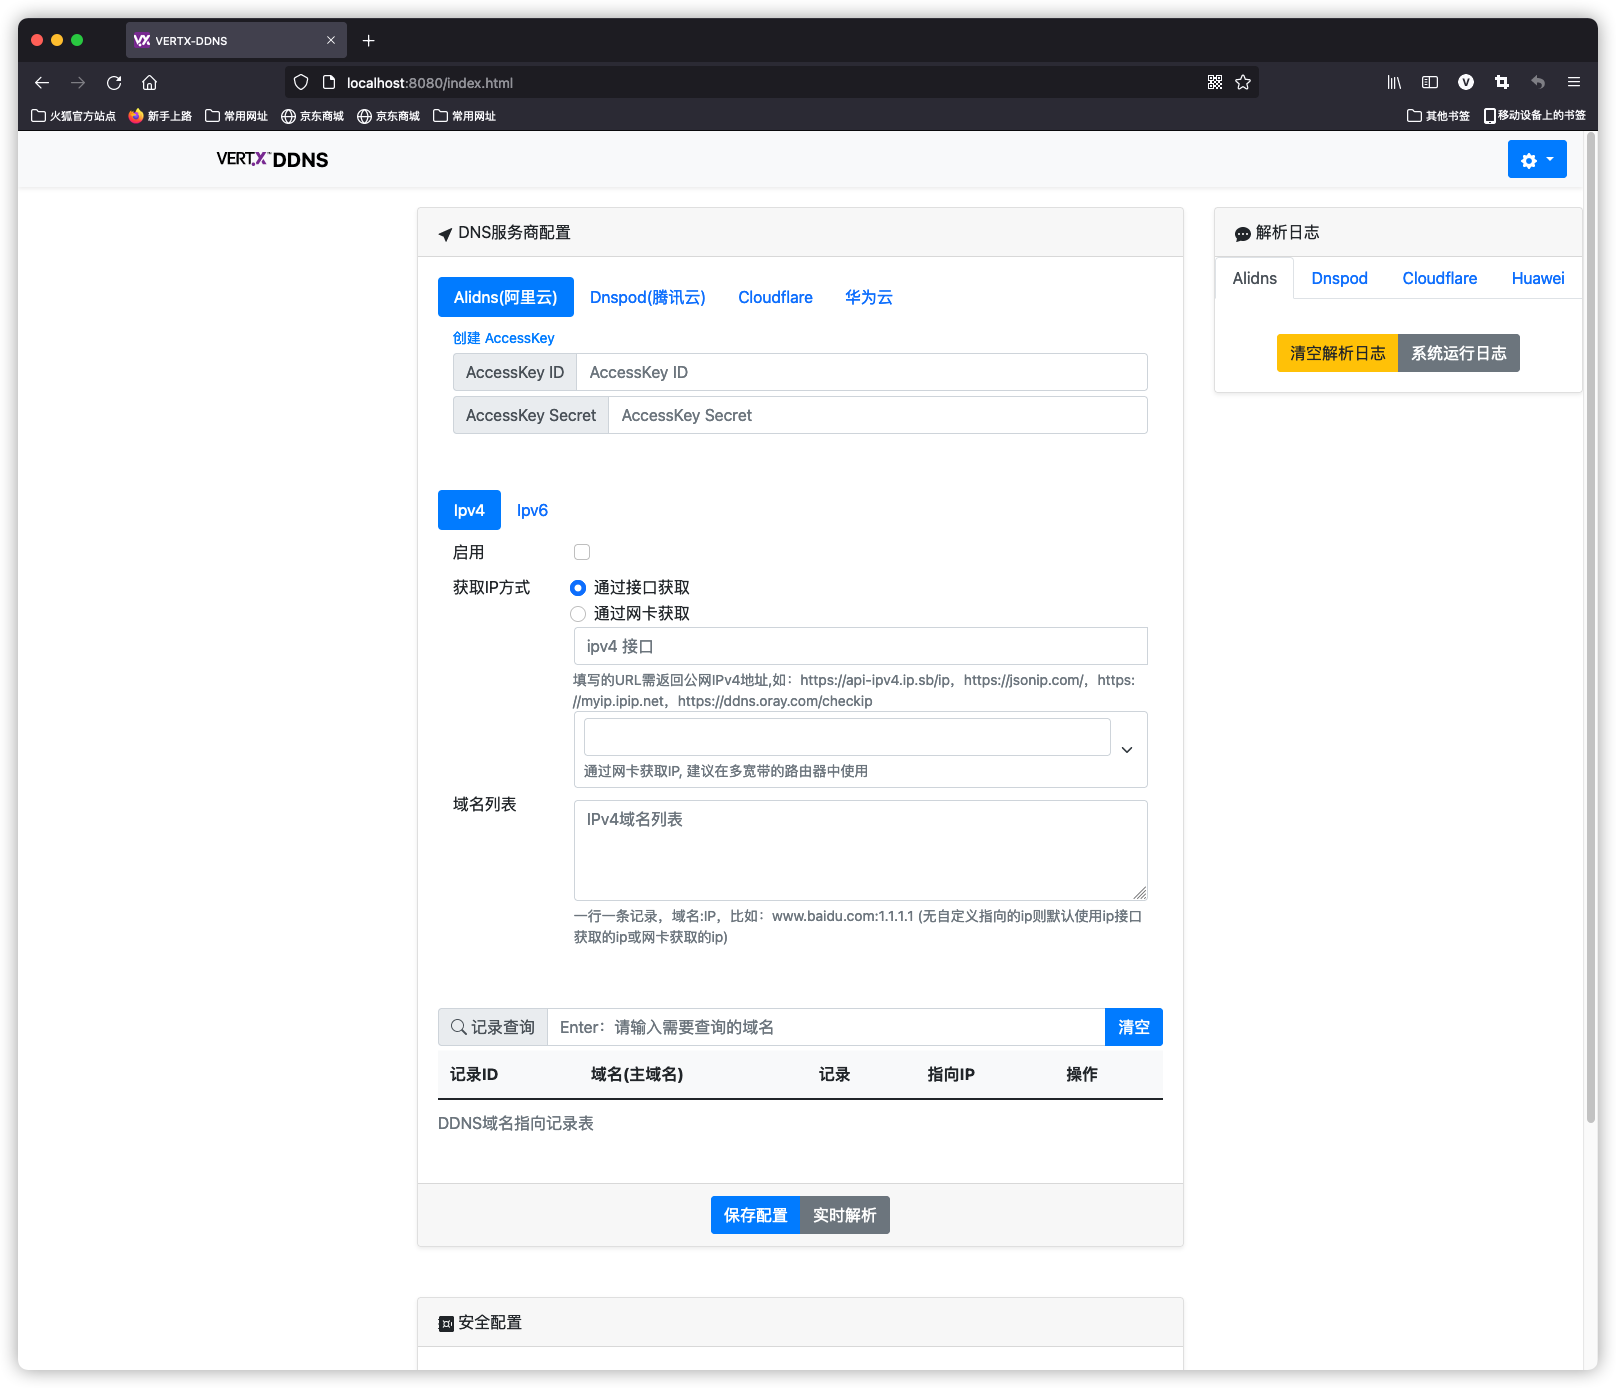
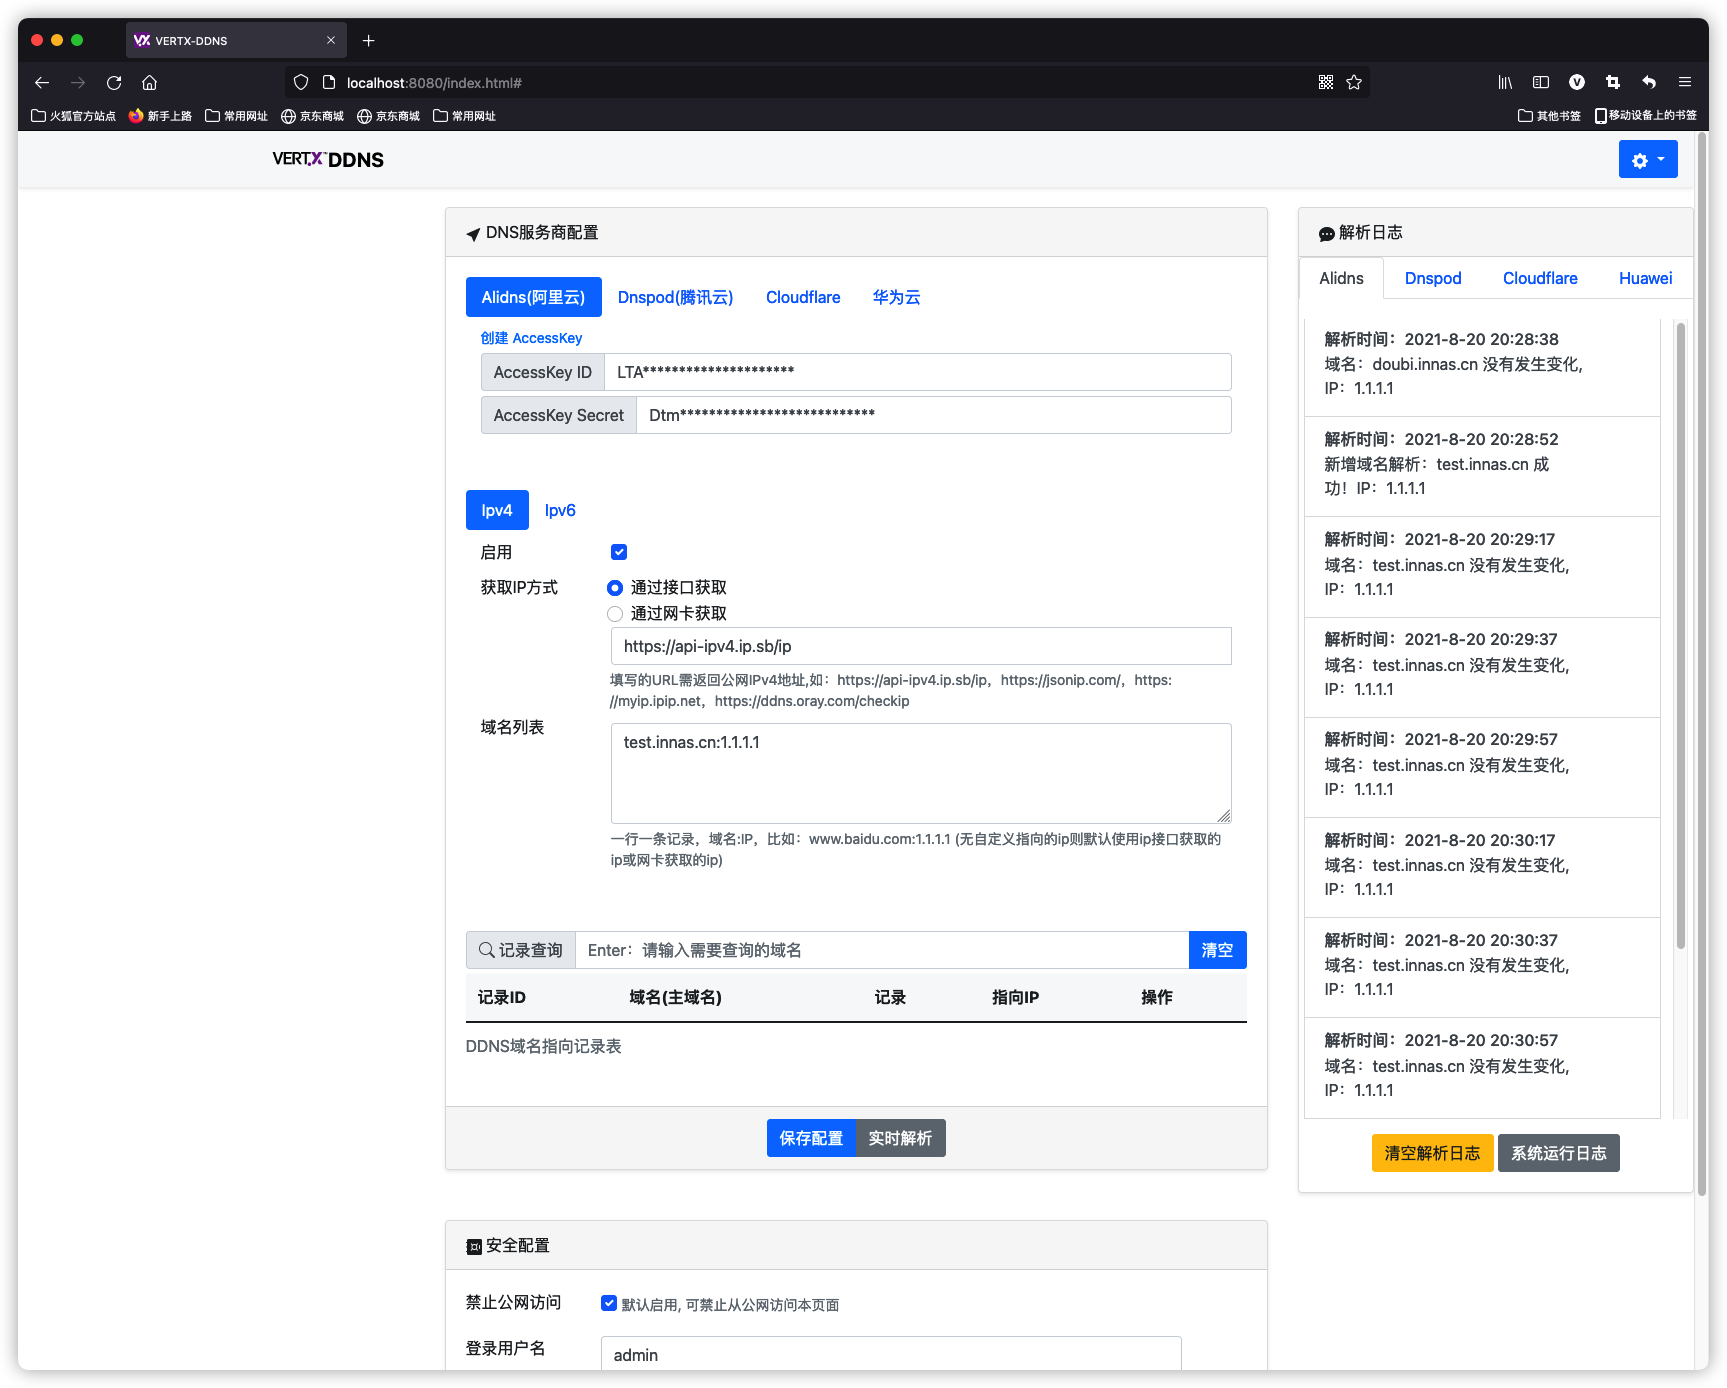
feat: 接入Webhook

diff --git a/src/main/resources/templates/index.html b/src/main/resources/templates/index.html
@@ -343,17 +343,44 @@
                       <fieldset class="row mb">
                           <legend class="col-form-label col-sm-2 pt-0">登录密码</legend>
                           <div class="col-sm-10">
-                              <input class="form-control" type="password" style="width: 90%" name="password" id="password" aria-describedby="password_help">
+                              <input class="form-control" type="password" style="width: 90%" name="password"
+                                     id="password" aria-describedby="password_help">
                               <small id="password_help" class="form-text text-muted">为保护你的信息安全, 建议输入</small>
                           </div>
                       </fieldset>
                   </form>
               </div>
               <div class="card-footer">
-                  <button class="btn btn-primary submit_btn" style="display:block;margin:0 auto" onclick="storeSecureConfig()">保存</button>
+                  <button class="btn btn-primary submit_btn" style="display:block;margin:0 auto"
+                          onclick="storeSecureConfig()">保存
+                  </button>
+              </div>
+          </div>
+          <!--          Webhook-->
+          <div class="card shadow-sm" style="margin-top: 50px; margin-bottom: 50px">
+              <div class="fs-6 card-header">
+                  <svg class="bi bi-bug-fill" fill="currentColor" height="16" viewBox="0 0 16 16" width="16"
+                       xmlns="http://www.w3.org/2000/svg">
+                      <path d="M4.978.855a.5.5 0 1 0-.956.29l.41 1.352A4.985 4.985 0 0 0 3 6h10a4.985 4.985 0 0 0-1.432-3.503l.41-1.352a.5.5 0 1 0-.956-.29l-.291.956A4.978 4.978 0 0 0 8 1a4.979 4.979 0 0 0-2.731.811l-.29-.956z"/>
+                      <path d="M13 6v1H8.5v8.975A5 5 0 0 0 13 11h.5a.5.5 0 0 1 .5.5v.5a.5.5 0 1 0 1 0v-.5a1.5 1.5 0 0 0-1.5-1.5H13V9h1.5a.5.5 0 0 0 0-1H13V7h.5A1.5 1.5 0 0 0 15 5.5V5a.5.5 0 0 0-1 0v.5a.5.5 0 0 1-.5.5H13zm-5.5 9.975V7H3V6h-.5a.5.5 0 0 1-.5-.5V5a.5.5 0 0 0-1 0v.5A1.5 1.5 0 0 0 2.5 7H3v1H1.5a.5.5 0 0 0 0 1H3v1h-.5A1.5 1.5 0 0 0 1 11.5v.5a.5.5 0 1 0 1 0v-.5a.5.5 0 0 1 .5-.5H3a5 5 0 0 0 4.5 4.975z"/>
+                  </svg>
+                  Webhook配置
+              </div>
+              <div class="card-body">
+                  <div class="input-group mb-3">
+                      <span class="input-group-text" id="basic-addon1">Webhook URL</span>
+                      <input aria-describedby="basic-addon1" aria-label="Webhook URL" class="form-control"
+                             placeholder="URL" type="text">
+                  </div>
+              </div>
+              <div class="card-footer">
+                  <button class="btn btn-primary submit_btn" onclick="" style="display:block;margin:0 auto">
+                      保存Webhook配置
+                  </button>
               </div>
           </div>
       </div>
+        <!--        日志-->
         <div class="col-md-3">
             <div class="card shadow-sm">
                 <div class="card-header fs-6">
@@ -364,7 +391,7 @@
                 </div>
                 <ul class="nav nav-tabs nav-fill" id="ddnsLogs">
                     <li class="nav-item">
-                        <a class="nav-link active" data-toggle="tab" onclick="getLogs('ALIYUN')">Alidns</a>
+                        <a class="nav-link active" data-toggle="tab" onclick="getLogs('ALIYUN')">Aliyun</a>
                     </li>
                     <li class="nav-item">
                         <a class="nav-link" data-toggle="tab" onclick="getLogs('DNSPOD')">Dnspod</a>
@@ -377,7 +404,7 @@
                     </li>
                 </ul>
                 <div class="card-body">
-                    <div class="row pre-scrollable" style="max-height: 600px"/>
+                    <div class="row pre-scrollable" style="max-height: 800px"/>
                     <div class="list-group" id="logs"></div>
                 </div>
 
@@ -406,11 +433,6 @@
                             </div>
                             <div class="modal-body">
                                 <div class="container">
-                                    <br>
-                                    <br>
-                                    <br>
-                                    <br>
-                                    <br>
                                     <div class="row">
                                         <div class="col-md-12">
                                             <form class="form-inline">
@@ -430,8 +452,6 @@
                                             </form>
                                         </div>
                                     </div>
-                                    <br>
-                                    <br>
                                     <div class="row">
                                         <div class="col-md-12">
                                             <div class="card">
@@ -1076,25 +1096,27 @@
             if (json instanceof Array) {
                 for (let i = 0; i < json.length; i++) {
                     let data = json[i]
-                    let dnsProviderName = data.dnsProviderType
+                    let status = data.logStatus
                     let content = data.content
                     let timestamp = data.timestamp
                     container.innerHTML = container.innerHTML
-                        + '<a href="#" class="list-group-item list-group-item-action ">'
+                        + '<a  class="list-group-item ">'
                         + '<div class="d-flex w-100 justify-content-between">'
-                        + '<h6 class="mb-1">' + '解析时间：' + getDate(timestamp) + '</h6>'
+                        + '<h6 class="mb-1">' + '状态：' + status + '</h6>'
+                        + '<small>' + getDate(timestamp) + '</small>'
                         + '</div>'
                         + '<p class="mb-1">' + content + '</p>'
                         + '</a>'
                 }
             } else {
-                let dnsProviderName = json
                 let content = json.content
+                let status = json.logStatus
                 let timestamp = json.timestamp
                 container.innerHTML = container.innerHTML
-                    + '<a href="#" class="list-group-item list-group-item-action ">'
+                    + '<a  class="list-group-item ">'
                     + '<div class="d-flex w-100 justify-content-between">'
-                    + '<h6 class="mb-1">' + '解析时间：' + getDate(timestamp) + '</h6>'
+                    + '<h6 class="mb-1">' + '状态：' + status + '</h6>'
+                    + '<small>' + getDate(timestamp) + '</small>'
                     + '</div>'
                     + '<p class="mb-1">' + content + '</p>'
                     + '</a>'

diff --git a/src/main/java/com/zf1976/ddns/pojo/DnsRecordLog.java b/src/main/java/com/zf1976/ddns/pojo/DnsRecordLog.java
@@ -17,6 +17,8 @@ public class DnsRecordLog implements Serializable {
 
     private DnsProviderType dnsProviderType;
 
+    private LogStatus logStatus;
+
     private String content;
 
     private Long timestamp;
@@ -31,9 +33,8 @@ public class DnsRecordLog implements Serializable {
     }
 
     private DnsRecordLog(DnsProviderType dnsProviderType, String domainOrMessage, String ip, LogStatus logStatus) {
-        this.dnsProviderType = dnsProviderType;
         switch (logStatus) {
-            case ROW -> this.content = "域名：" + domainOrMessage + " 没有发生变化, IP：" + ip;
+            case RAW -> this.content = "域名：" + domainOrMessage + " 没有发生变化, IP：" + ip;
             case CREATE -> this.content = "新增域名解析：" + domainOrMessage + " 成功！IP：" + ip;
             case CREATE_FAIL -> this.content = "新增域名解析：" + domainOrMessage + " 失败！";
             case MODIFY -> this.content = "更新域名解析：" + domainOrMessage + " 成功！IP：" + ip;
@@ -41,11 +42,13 @@ public class DnsRecordLog implements Serializable {
             case ERROR -> this.content = domainOrMessage;
             default -> throw new UnsupportedOperationException("Unsupported log status: " + logStatus.name());
         }
+        this.dnsProviderType = dnsProviderType;
+        this.logStatus = logStatus;
         this.timestamp = new Date().getTime();
     }
 
     public static DnsRecordLog rawLog(DnsProviderType dnsProviderType, String domain, String ip) {
-        return new DnsRecordLog(dnsProviderType, domain, ip, LogStatus.ROW);
+        return new DnsRecordLog(dnsProviderType, domain, ip, LogStatus.RAW);
     }
 
     public static DnsRecordLog createLog(DnsProviderType dnsProviderType, String domain, String ip) {
@@ -95,10 +98,20 @@ public class DnsRecordLog implements Serializable {
         return this;
     }
 
+    public LogStatus getLogStatus() {
+        return logStatus;
+    }
+
+    public DnsRecordLog setLogStatus(LogStatus logStatus) {
+        this.logStatus = logStatus;
+        return this;
+    }
+
     @Override
     public String toString() {
         return "DnsRecordLog{" +
                 "dnsProviderType=" + dnsProviderType +
+                ", logStatus=" + logStatus +
                 ", content='" + content + '\'' +
                 ", timestamp=" + timestamp +
                 '}';

diff --git a/src/main/java/com/zf1976/ddns/enums/LogStatus.java b/src/main/java/com/zf1976/ddns/enums/LogStatus.java
@@ -9,34 +9,45 @@ public enum LogStatus {
     /**
      * 无变化
      */
-    ROW,
+    RAW("无变化"),
     /**
      * err
      */
-    ERROR,
+    ERROR("错误"),
     /**
      * 新增/创建
      */
-    CREATE,
+    CREATE("新增"),
     /**
      * 更改
      */
-    MODIFY,
+    MODIFY("更新"),
     /**
      * 删除
      */
-    DELETE,
+    DELETE("删除"),
     /**
      * 描述
      */
-    DESCRIBE,
+    DESCRIBE("描述"),
     /**
      * 新增失败
      */
-    CREATE_FAIL,
+    CREATE_FAIL("新增失败"),
     /**
      * 更新失败
      */
-    MODIFY_FAIL
+    MODIFY_FAIL("更新失败");
 
+    private final String value;
+
+    LogStatus(String value) {
+        this.value = value;
+    }
+
+
+    @Override
+    public String toString() {
+        return this.value;
+    }
 }

diff --git a/src/main/java/com/zf1976/ddns/verticle/PeriodicVerticle.java b/src/main/java/com/zf1976/ddns/verticle/PeriodicVerticle.java
@@ -78,7 +78,7 @@ public class PeriodicVerticle extends AbstractDnsRecordSubject {
 
     @Override
     public void start() throws Exception {
-        final var periodicId = vertx.setPeriodic(20000, id -> {
+        final var periodicId = vertx.setPeriodic(DEFAULT_PERIODIC_TIME, id -> {
             vertx.sharedData()
                  .getLocalAsyncMap(ApiConstants.SHARE_MAP_ID)
                  .compose(shareMap -> shareMap.get(ApiConstants.RUNNING_CONFIG_ID)
